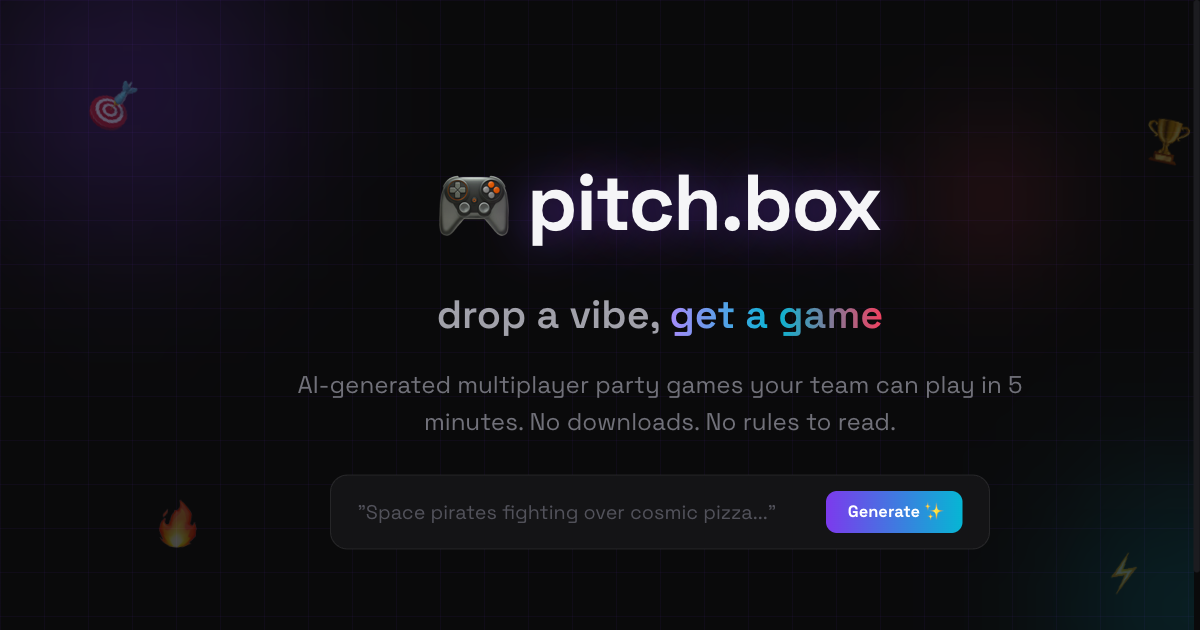
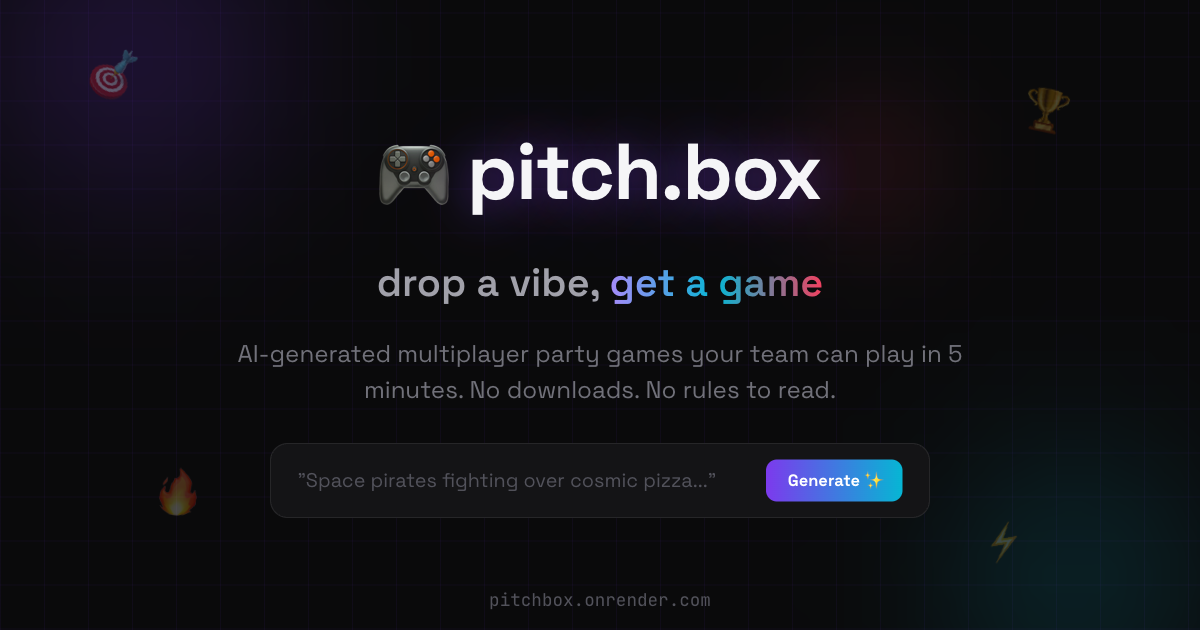
Fix OG image centering and scrollbar
Wrap card in full-viewport container, hide body overflow,
adjust URL positioning for clean 1200x630 capture.

diff --git a/app/og-image/page.tsx b/app/og-image/page.tsx
@@ -4,6 +4,19 @@ export default function OGImage() {
   return (
     <div
       style={{
+        width: "100vw",
+        height: "100vh",
+        display: "flex",
+        alignItems: "center",
+        justifyContent: "center",
+        background: "#0a0a0b",
+        overflow: "hidden",
+        margin: 0,
+        padding: 0,
+      }}
+    >
+    <div
+      style={{
         width: 1200,
         height: 630,
         background: "#0a0a0b",
@@ -218,7 +231,7 @@ export default function OGImage() {
       <div
         style={{
           position: "absolute",
-          bottom: 28,
+          bottom: 44,
           display: "flex",
           alignItems: "center",
           gap: 8,
@@ -235,6 +248,7 @@ export default function OGImage() {
         dangerouslySetInnerHTML={{
           __html: `
           @import url('https://fonts.googleapis.com/css2?family=Space+Grotesk:wght@400;500;600;700&family=JetBrains+Mono:wght@400&display=swap');
+          html, body { margin: 0; padding: 0; overflow: hidden; background: #0a0a0b; }
           [data-nextjs-dialog-overlay],
           [data-nextjs-dialog],
           nextjs-portal,
@@ -244,6 +258,7 @@ export default function OGImage() {
         `,
         }}
       />
+    </div>
     </div>
   );
 }
